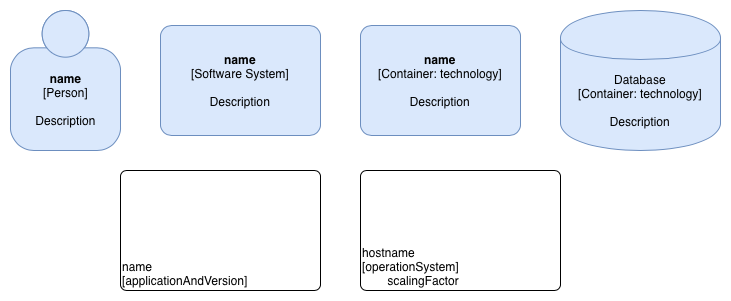
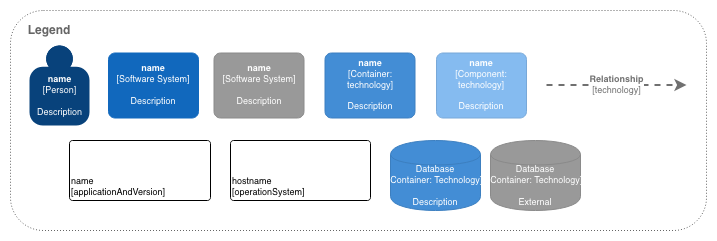
Updated shape screenshots and instructions for C4 diagrams

diff --git a/_posts/2020-07-29-c4-modelling.md b/_posts/2020-07-29-c4-modelling.md
@@ -10,7 +10,7 @@ categories: [use-cases]
 
 The C4 modelling is used to describe and define architectures in an abstract and simple way. Designed by Simon Brown, C4 is a different way to approach modelling software development which focuses on four c's: context (people), containers, components, and code.
 
-diagrams.net provides you with a C4 shape library with the shapes you need to create all of these diagrams, including extensive UML shape libraries for the detailed diagrams typically used at the code level.
+diagrams.net provides you with a C4 shape library with the shapes you need to create all of these diagrams, including extensive UML shape libraries for the detailed diagrams typically used at the code level. Labels are added to these shapes using metadata.
 
 C4 model diagrams capture the three levels of design that are needed when crafting any general software or business system. The first diagram is a high-level abstract overview of your system, stepping into more detail at each level, with the fourth level typically reserved for implementation details.
 
@@ -28,7 +28,7 @@ The C4 notation is very simple compared to other modelling notations. It is reco
 
 The following shapes are available in the C4 shape library.
 
-<img src="/assets/img/blog/c4-shape-library.png" style="width=100%;max-width:600px;height:auto;" alt="Shapes available in the C4 shape library in diagrams.net">
+<img src="/assets/img/blog/c4-shape-library.png" style="max-width:100%;height:auto;" alt="Shapes available in the C4 shape library in diagrams.net">
 
 **Enable the C4 shape library**
 
@@ -39,11 +39,22 @@ Alternatively, create a new C4 diagram immediately using the following link: [ht
 
 **Tip:** To show systems that are outside the scope of your software, change their style in the format panel.
 
+**Edit the C4 shape**
+
+1. Once you've added the shape to the drawing canvas, double click on it to open the shape's metadata.
+2. Enter the details as indicated in the text fields, then click _Apply_.
+
+<img src="/assets/img/blog/c4-component-metadata.png" style="width=100%;max-width:400px;height:auto;" alt="Shapes available in the C4 shape library in diagrams.net">
+
+When you hover over each shape in the diagrams.net editor or viewer, a tooltip will show you this metadata.
+
+<img src="/assets/img/blog/c4-hover-metadata.png" style="width=100%;max-width:400px;height:auto;" alt="Shapes available in the C4 shape library in diagrams.net">
+
 ## C4 system context diagram
 
 This top-level diagram is also the most abstract. C4 system context diagrams show the big picture, how users interact with your software system as a whole, and how your software fits together with other existing software systems. These are good diagrams for showing what is in the scope of your software project, and what lies outside that scope.
 
-[<img src="/assets/img/blog/c4-context-example.png" style="max-width:100%;height:auto;" alt="An example C4 system context diagram">](https://viewer.diagrams.net/?lightbox=1&highlight=0000ff&edit=_blank&layers=1&nav=1&title=#Uhttps%3A%2F%2Fraw.githubusercontent.com%2Fjgraph%2Fdrawio-diagrams%2Fmaster%2Fblog%2FC4.drawio)
+[<img src="/assets/img/blog/c4-context.png" style="max-width:100%;height:auto;" alt="An example C4 system context diagram">](https://viewer.diagrams.net/?lightbox=1&highlight=0000ff&edit=_blank&layers=1&nav=1&title=#Uhttps%3A%2F%2Fraw.githubusercontent.com%2Fjgraph%2Fdrawio-diagrams%2Fmaster%2Fblog%2FC4.drawio)
 
 [Open this example context diagram in the diagrams.net editor](https://app.diagrams.net/?lightbox=0&highlight=0000ff&edit=_blank&layers=1&nav=1&title=#Uhttps%3A%2F%2Fraw.githubusercontent.com%2Fjgraph%2Fdrawio-diagrams%2Fmaster%2Fblog%2FC4.drawio)
 
@@ -51,7 +62,7 @@ This top-level diagram is also the most abstract. C4 system context diagrams sho
 
 Representing the high-level technology choices, C4 container diagrams show the big elements in your software - web and desktop applications, mobile apps, databases, file systems, etc. A container is a standalone piece of software in your system  that executes code or stores data. This diagram is a useful design document for software engineers and IT support.
 
-[<img src="/assets/img/blog/c4-container-example.png" style="max-width:100%;height:auto;" alt="An example C4 system container diagram">](https://viewer.diagrams.net/?lightbox=1&highlight=0000ff&edit=_blank&layers=1&page=1&nav=1&title=#Uhttps%3A%2F%2Fraw.githubusercontent.com%2Fjgraph%2Fdrawio-diagrams%2Fmaster%2Fblog%2FC4.drawio)
+[<img src="/assets/img/blog/c4-container.png" style="max-width:100%;height:auto;" alt="An example C4 system container diagram">](https://viewer.diagrams.net/?lightbox=1&highlight=0000ff&edit=_blank&layers=1&page=1&nav=1&title=#Uhttps%3A%2F%2Fraw.githubusercontent.com%2Fjgraph%2Fdrawio-diagrams%2Fmaster%2Fblog%2FC4.drawio)
 
 [Open this example container diagram in the diagrams.net editor](https://app.diagrams.net/?lightbox=0&highlight=0000ff&edit=_blank&layers=1&page=1&nav=1&title=#Uhttps%3A%2F%2Fraw.githubusercontent.com%2Fjgraph%2Fdrawio-diagrams%2Fmaster%2Fblog%2FC4.drawio)
 
@@ -59,7 +70,7 @@ Representing the high-level technology choices, C4 container diagrams show the b
 
 Simpler than their UML counterparts, C4 component diagrams provide more detail about each container in your system, showing what elements or components they are made up of and how they interact, occasionally with implentation details for software architects and developers.
 
-[<img src="/assets/img/blog/c4-component-example.png" style="max-width:100%;height:auto;" alt="An example C4 component diagram">](https://viewer.diagrams.net/?lightbox=1&highlight=0000ff&edit=_blank&layers=1&page=2&nav=1&title=#Uhttps%3A%2F%2Fraw.githubusercontent.com%2Fjgraph%2Fdrawio-diagrams%2Fmaster%2Fblog%2FC4.drawio)
+[<img src="/assets/img/blog/c4-component.png" style="max-width:100%;height:auto;" alt="An example C4 component diagram">](https://viewer.diagrams.net/?lightbox=1&highlight=0000ff&edit=_blank&layers=1&page=2&nav=1&title=#Uhttps%3A%2F%2Fraw.githubusercontent.com%2Fjgraph%2Fdrawio-diagrams%2Fmaster%2Fblog%2FC4.drawio)
 
 [Open this example component diagram in the diagrams.net editor](https://app.diagrams.net/?lightbox=0&highlight=0000ff&edit=_blank&layers=1&page=2&nav=1&title=#Uhttps%3A%2F%2Fraw.githubusercontent.com%2Fjgraph%2Fdrawio-diagrams%2Fmaster%2Fblog%2FC4.drawio)
 
@@ -74,7 +85,7 @@ Representing the actual implementation details, UML class diagrams, entity relat
 
 ## Extend your C4 models in diagrams.net
 
-Several features in diagrams.net make viewing layered diagrams such as those used in C4 models more convenient.
+Several features in diagrams.net make it more convenient to view layered diagrams such as those used in C4 models, and extend them with supplementary diagrams.
 
 * **[Multi-page diagrams](/blog/multiple-page-diagrams.html):** Keep all of the related diagrams together in one file.
 * **Links between pages:** Add a link to each system, container and component shape which jumps to the appropriate page in your diagram.
